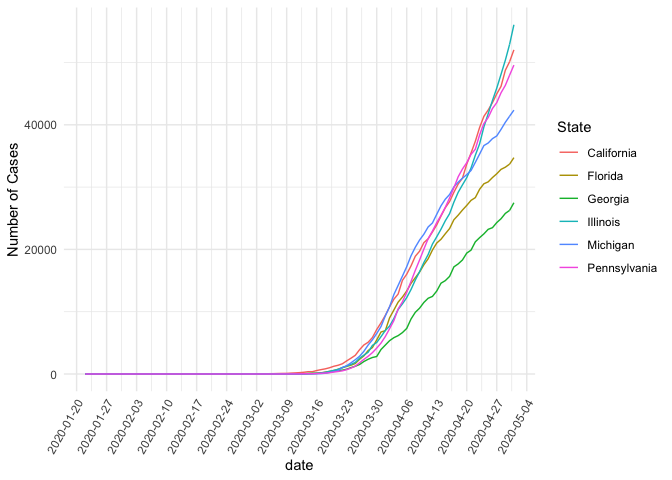
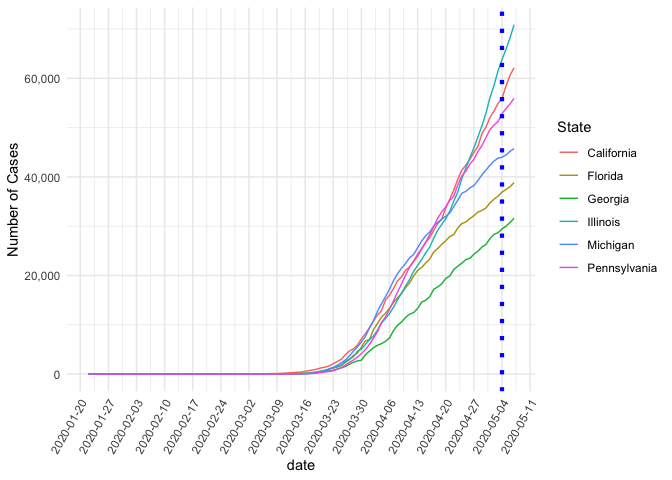
Data refresh, edits

diff --git a/covid-19-reopenings.md b/covid-19-reopenings.md
@@ -28,6 +28,8 @@ by_state <- jhu_latest %>%
   mutate(date = mdy(date))
 ```
 
+The blue line is the date FL started to reopen
+
 ``` r
 # plot select states (initially selecting some of the states where people are protesting, will refine with more precise selection)
 states = c("Florida", "Georgia", "Michigan", "California", "Illinois", "Pennsylvania")
@@ -36,11 +38,13 @@ states <- by_state %>%
   gather(key = "State", value = "value", -date)
 
 
-
 ggplot(states, aes(x = date, y = value)) + 
-  geom_line(aes(color = State)) + 
+  geom_line(stat= "identity", aes(color = State)) + 
   scale_x_date(date_breaks = "1 week") +
   ylab("Number of Cases") + 
+  scale_y_continuous(labels = comma) +
+  geom_vline(xintercept = as.Date("2020-05-04"), linetype="dotted", 
+                color = "blue", size=1.5) +
   theme_minimal() + 
   theme(axis.text.x=element_text(angle=60, hjust=1))
 ```
@@ -55,6 +59,8 @@ ggplot(states, aes(x = date, y = value)) +
   ylab("Number of Cases (logarithmic axis") + 
   xlab("Week") +
   scale_y_continuous(trans = "log2") +
+  geom_vline(xintercept = as.Date("2020-05-04"), linetype="dotted", 
+                color = "blue", size=1.5) +
   theme_minimal() + 
   theme(axis.text.x=element_text(angle=60, hjust=1)) 
 ```
@@ -63,6 +69,6 @@ ggplot(states, aes(x = date, y = value)) +
 
 Last Updated:
 
-    ## [1] "2020-05-02 11:23:06 EDT"
+    ## [1] "2020-05-07 23:31:57 EDT"
 
 To Do: \* Refresh States
